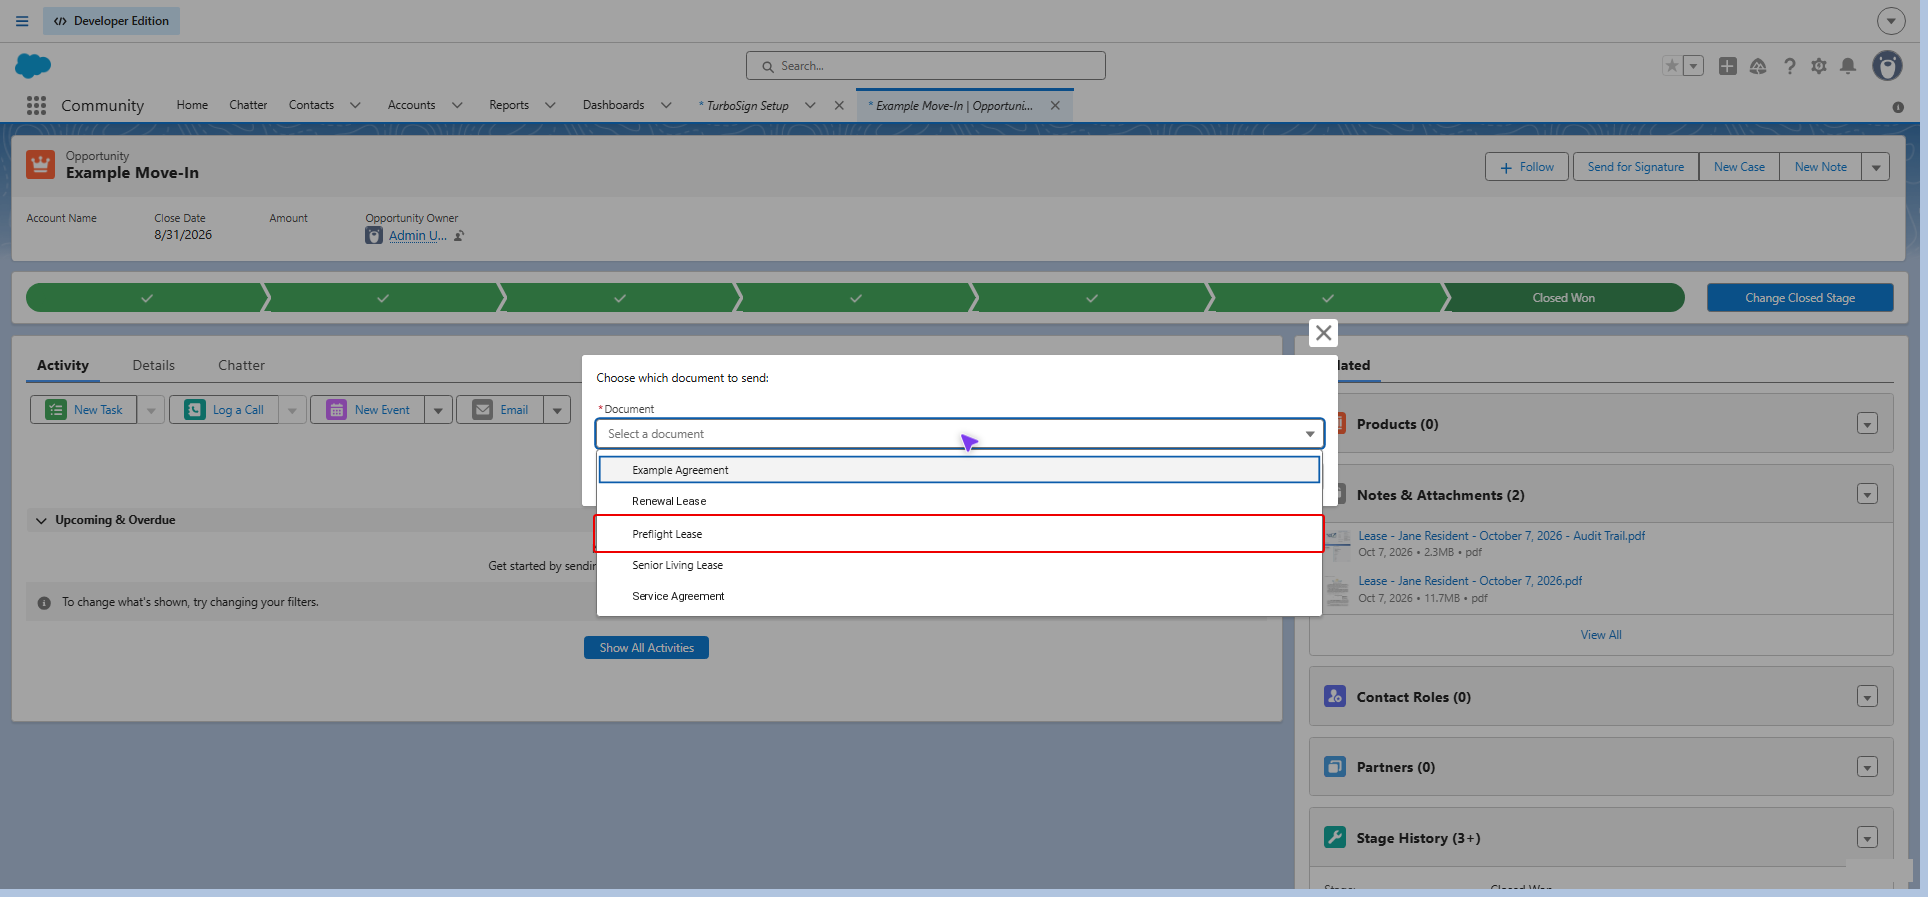
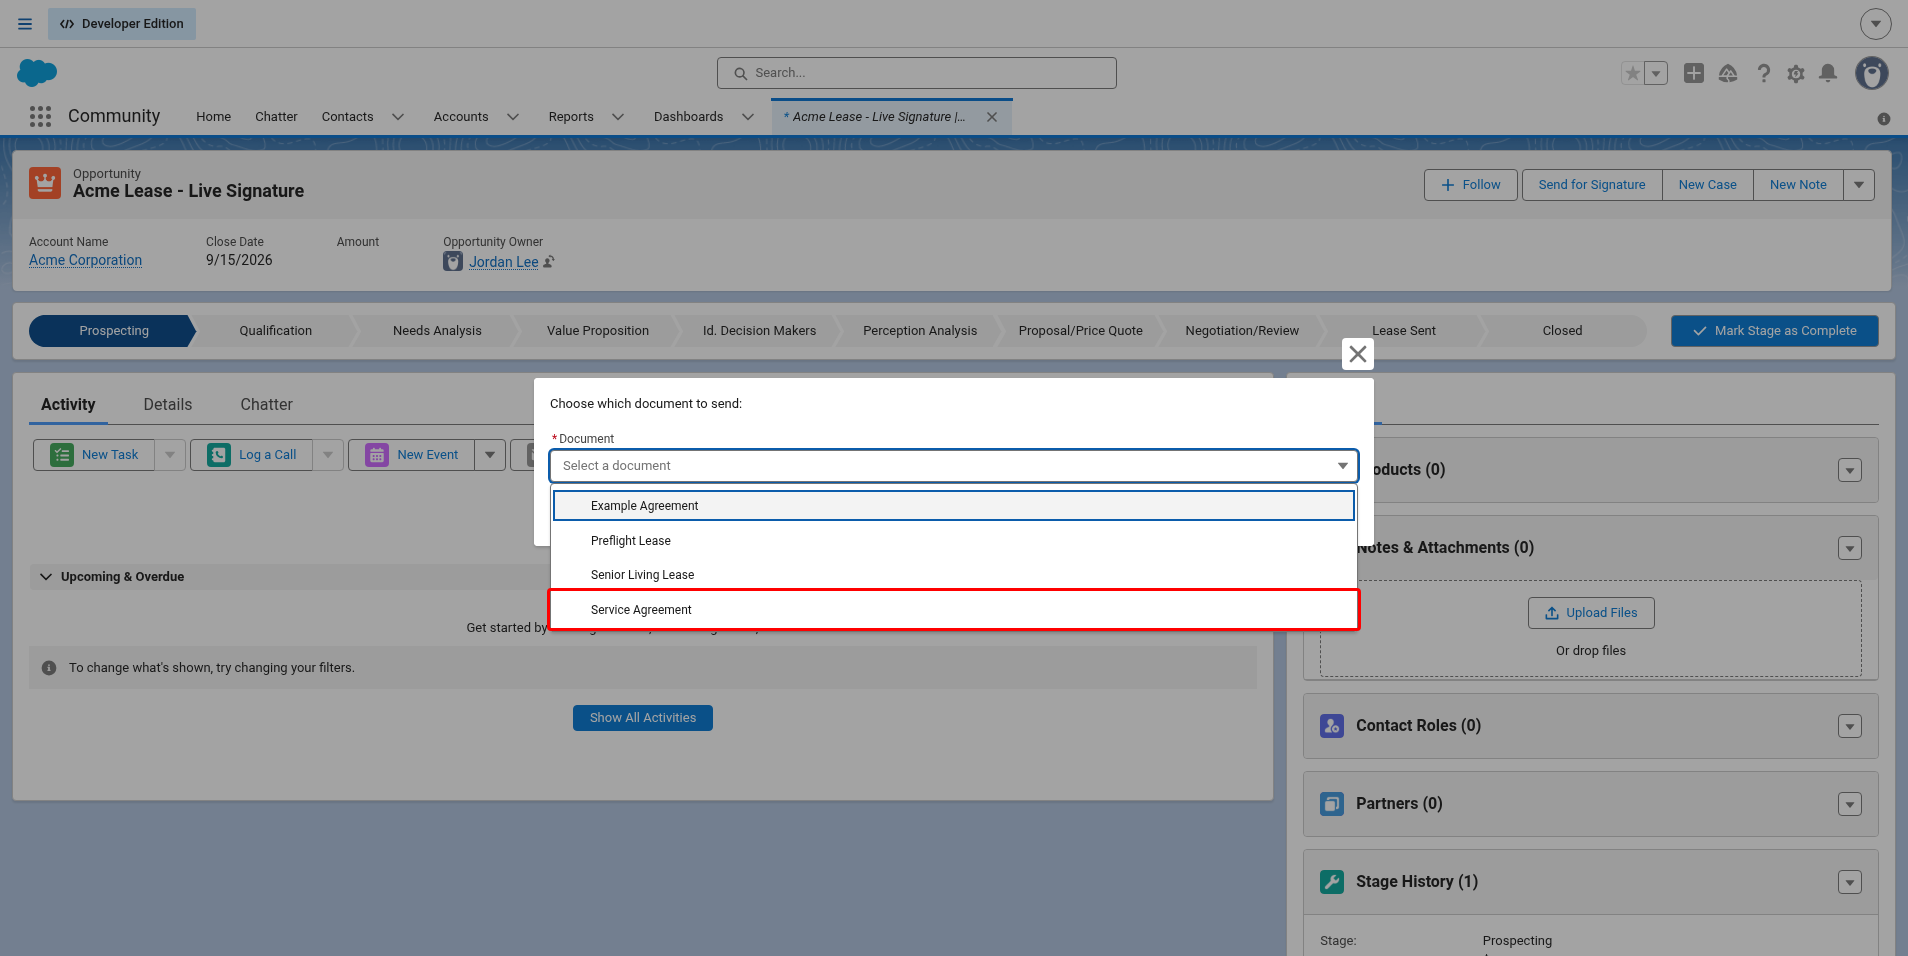
docs(turbosign-salesforce): recapture send and builder screenshots, add install and setup screenshots
Recaptured 31, 40 and 41 on the current UI. Added the Named Credential,
Highlights Panel, Add Action, install and Installed Packages screenshots
that were marked as pending, and corrected the install wording to match
what Salesforce shows (Version Number 1.0, long-install message).

Changed region(s): [[0.0, 0.0, 1.0, 1.0], [0.0, 0.6555, 0.1855, 0.7179], [0.0309, 0.5619, 0.0928, 0.6243]]

diff --git a/docs/Integrations/TurboSign-for-Salesforce/setup.md b/docs/Integrations/TurboSign-for-Salesforce/setup.md
@@ -71,7 +71,7 @@ The package includes an External Credential called **TurboDocx API**. You add yo
 
 After you save, the **TurboDocxPrincipal** row shows **2** under **Authentication Parameters**. An **Authentication Status** of **Unknown** is normal for this kind of credential. Salesforce doesn't test it until the first request. The template list in [Step 5](#step-5-build-a-document-setup) is your first real check.
 
-<!-- Screenshot: 09-principal-saved.png, TurboDocxPrincipal row with Authentication Parameters 2 and Authentication Status Unknown highlighted -->
+![TurboDocxPrincipal row with Authentication Parameters 2 and Authentication Status Unknown highlighted](/img/turbosign-salesforce/09-principal-saved.png)
 
 :::caution Use these exact names
 The package looks for parameters named `ApiKey` and `OrgId`. If either is missing or spelled differently, every send fails with **Field TurboDocx_API.ApiKey does not exist** (or `OrgId`).
@@ -86,7 +86,7 @@ The **TurboDocx API** Named Credential holds the TurboDocx address. It is set to
 1. On the same External Credential page, scroll to **Related Named Credentials**.
 2. Read the **URL** in the **TurboDocx API** row. It should be `https://api.turbodocx.com`, or the address your TurboDocx team gave you. If it is, go on to Step 3.
 
-<!-- Screenshot: 09b-related-named-credential-url.png, Related Named Credentials list with the TurboDocx API URL highlighted -->
+![Related Named Credentials list with the TurboDocx API URL highlighted](/img/turbosign-salesforce/09b-related-named-credential-url.png)
 
 To change the URL:
 
@@ -221,8 +221,6 @@ The builder already lists every token in the template, including signing tokens 
 
 1. On the signing token's row, open **Kind**.
 
-   <!-- Screenshot to recapture: 31-add-token.png should show the Kind menu open on the existing sig token row -->
-
    ![Kind menu open on an existing token row](/img/turbosign-salesforce/31-add-token.png)
 
 2. Pick what goes there: **Signature**, **Initial**, **Date**, **Text**, and so on.
@@ -294,7 +292,7 @@ Opportunity record pages show their buttons in one of two ways. To find out whic
 
 If the properties pane on the right lists actions with an **Add Action** button, the page uses **Dynamic Actions**. If it offers **Upgrade Now** instead, the page still takes its buttons from the page layout, so use **page layout actions**.
 
-<!-- Screenshot: 48-highlights-panel-actions.png, Lightning App Builder with the Highlights Panel selected and its actions list highlighted -->
+![Lightning App Builder with the Highlights Panel selected and the Upgrade Now button highlighted](/img/turbosign-salesforce/48-highlights-panel-actions.png)
 
 **If the page uses Dynamic Actions**, stay in the Lightning App Builder:
 
@@ -304,7 +302,7 @@ If the properties pane on the right lists actions with an **Add Action** button,
 4. Click **Save**.
 5. If Salesforce asks, click **Activate** and assign the page.
 
-<!-- Screenshot: 49-add-action-send-for-signature.png, Add Action dialog with Send for Signature highlighted -->
+![Add Action dialog with Send for Signature highlighted](/img/turbosign-salesforce/49-add-action-send-for-signature.png)
 
 **If the page uses page layout actions:**
 

diff --git a/docs/Integrations/TurboSign-for-Salesforce/install.md b/docs/Integrations/TurboSign-for-Salesforce/install.md
@@ -36,22 +36,22 @@ The install link installs TurboSign for Salesforce as an unlocked package. It ta
 2. Log in to the org as a System Administrator, if Salesforce asks.
 3. Check that the install page shows **TurboSign for Salesforce** and the version you expect.
 
-   <!-- Screenshot: install-01-install-page.png, Salesforce package install page with the package name and version highlighted -->
+   ![Package install page with the app name and version number highlighted](/img/turbosign-salesforce/install-01-install-page.png)
 
 4. Select **Install for Admins Only**.
 
-   <!-- Screenshot: install-02-admins-only.png, install options with Install for Admins Only highlighted -->
+   ![Install options with Install for Admins Only highlighted](/img/turbosign-salesforce/install-02-admins-only.png)
 
    This gives the package's access only to admins for now. You give your reps access with the TurboSign permission sets in the next part, which is all they need.
 
 5. If the page asks you to confirm that you're installing a non-Salesforce application, check the box.
 6. Click **Install**.
 
-   <!-- Screenshot: install-03-install-button.png, Install button highlighted -->
+   ![Install button highlighted](/img/turbosign-salesforce/install-03-install-button.png)
 
-7. Wait for **Installation Complete**, then click **Done**. If Salesforce says the install is taking a while, you can leave the page. Salesforce emails you when it finishes.
+7. Wait for the install to finish, then click **Done**. If Salesforce says **This app is taking a long time to install**, click **Done**. The install keeps running, and Salesforce emails you when it finishes.
 
-   <!-- Screenshot: install-04-success.png, Installation Complete message with the Done button highlighted -->
+   ![Install page saying the app is taking a long time to install, with the Done button highlighted](/img/turbosign-salesforce/install-04-success.png)
 
 To confirm the install, open **Setup**, type `Installed Packages` in **Quick Find**, and click **Installed Packages**. **TurboSign for Salesforce** is in the list. See [Check which version is installed](/docs/Integrations/turbosign-for-salesforce/install-links#check-which-version-is-installed).
 

diff --git a/docs/Integrations/TurboSign-for-Salesforce/install-links.md b/docs/Integrations/TurboSign-for-Salesforce/install-links.md
@@ -41,6 +41,6 @@ Each new version is listed with its own install links on the [TurboSign for Sale
 
 1. Open **Setup**.
 2. In **Quick Find**, type `Installed Packages`, then click **Installed Packages**.
-3. Find **TurboSign for Salesforce** in the list. The **Version Number** column shows the version you have. Version 1.0.0 shows a number that starts with `1.0.0`.
+3. Find **TurboSign for Salesforce** in the list. The **Version Number** column shows the version you have. Version 1.0.0 shows as **1.0**.
 
-<!-- Screenshot: install-05-installed-packages.png, Installed Packages list with the TurboSign for Salesforce row and its Version Number highlighted -->
+![Installed Packages list with TurboSign for Salesforce and its Version Number highlighted](/img/turbosign-salesforce/install-05-installed-packages.png)

diff --git a/docs/Integrations/TurboSign-for-Salesforce/send-and-sign.md b/docs/Integrations/TurboSign-for-Salesforce/send-and-sign.md
@@ -24,7 +24,7 @@ This guide shows a rep how to send a document from an Opportunity, what each sig
 
 3. Under **Document**, pick the document you want to send.
 
-   ![Document list with a lease highlighted](/img/turbosign-salesforce/41-choose-document.png)
+   ![Document list with Service Agreement highlighted](/img/turbosign-salesforce/41-choose-document.png)
 
 4. Click **Review**. TurboSign fills the document from the record. This can take a few seconds for long documents.
 
